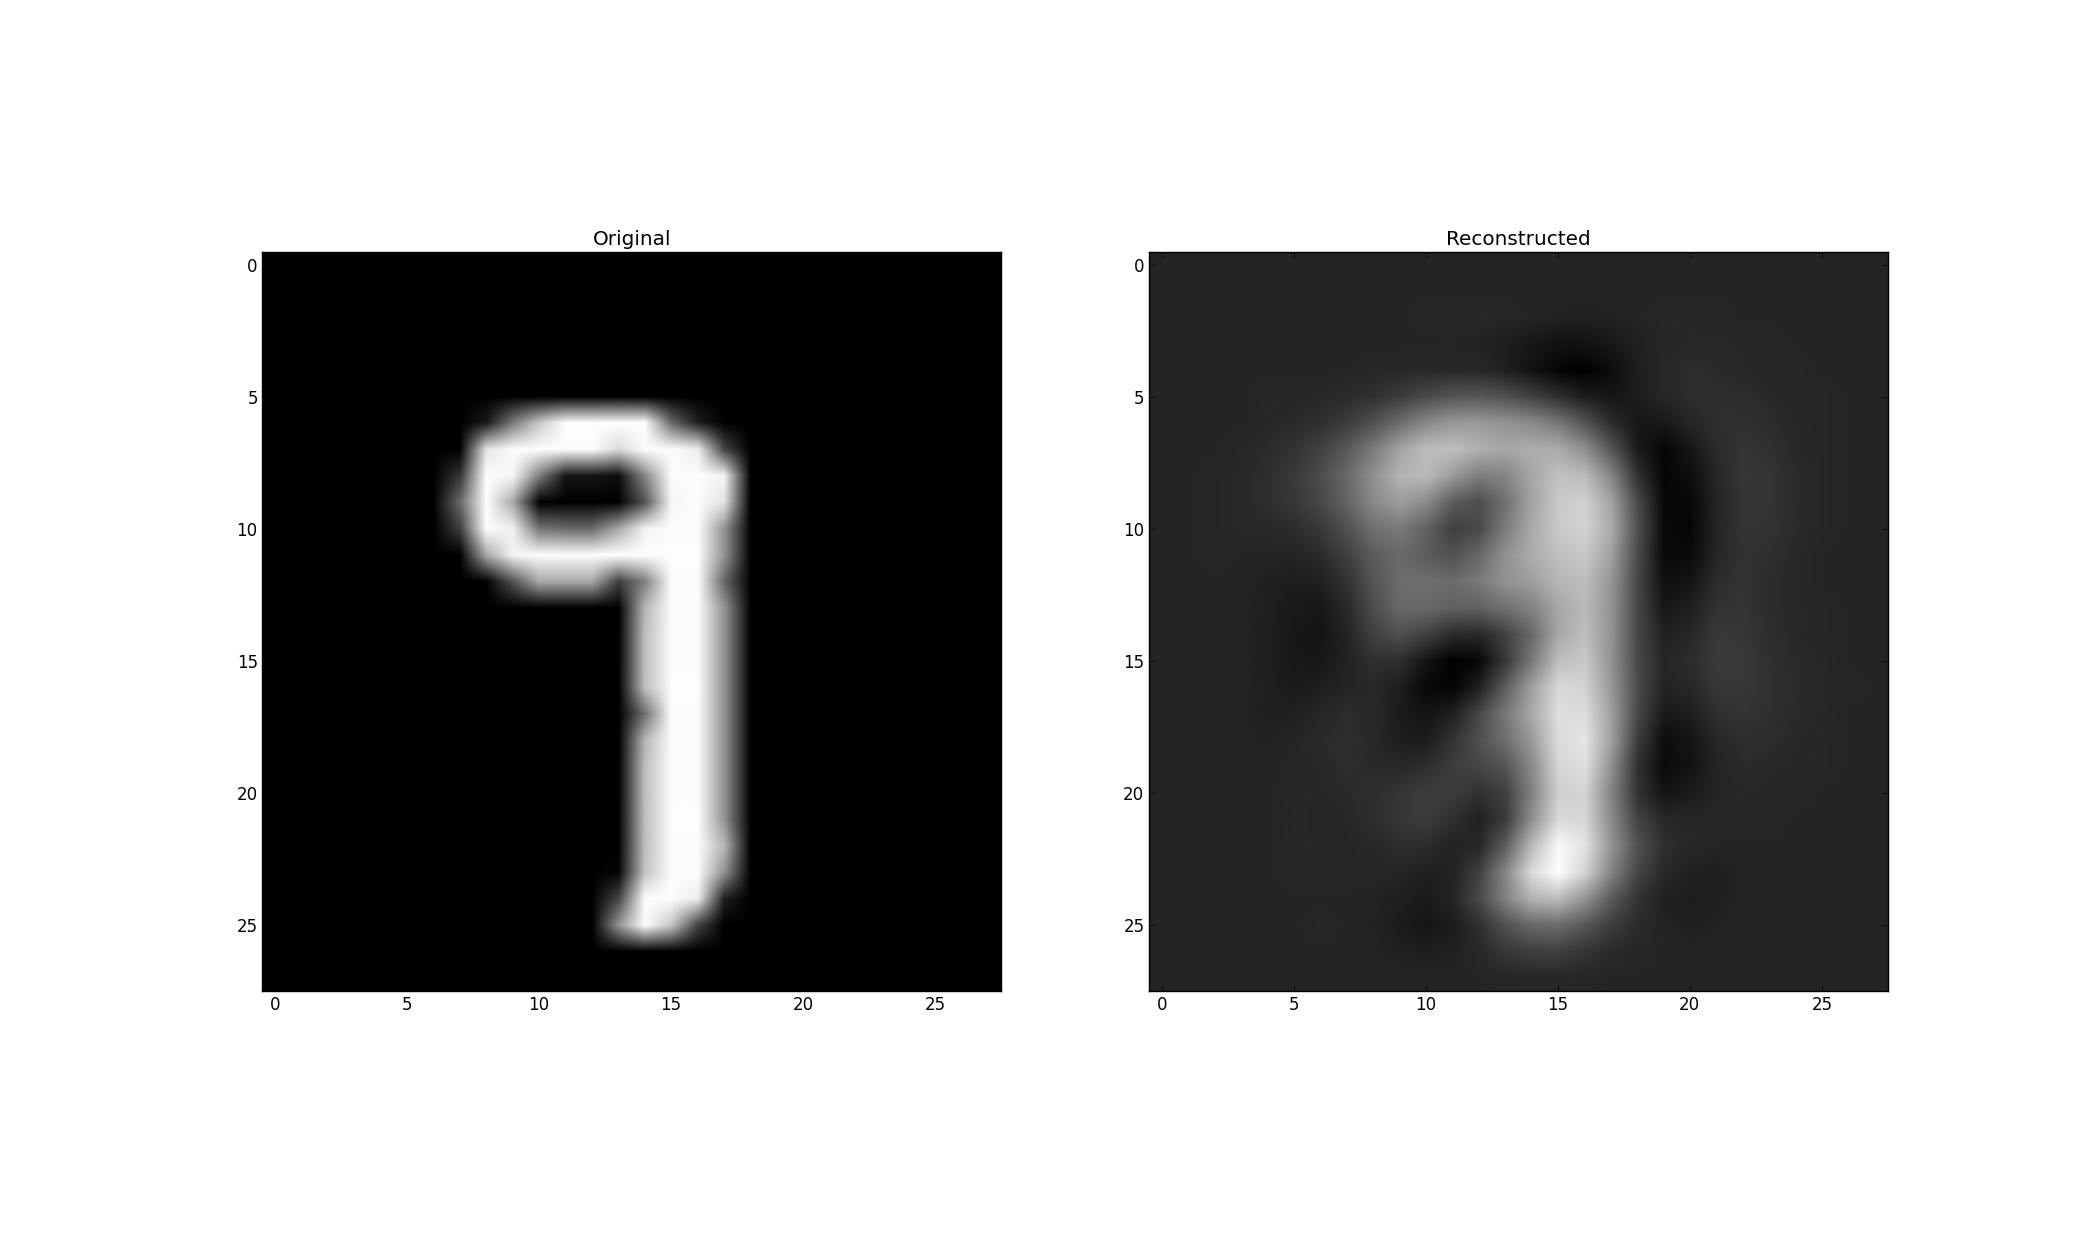
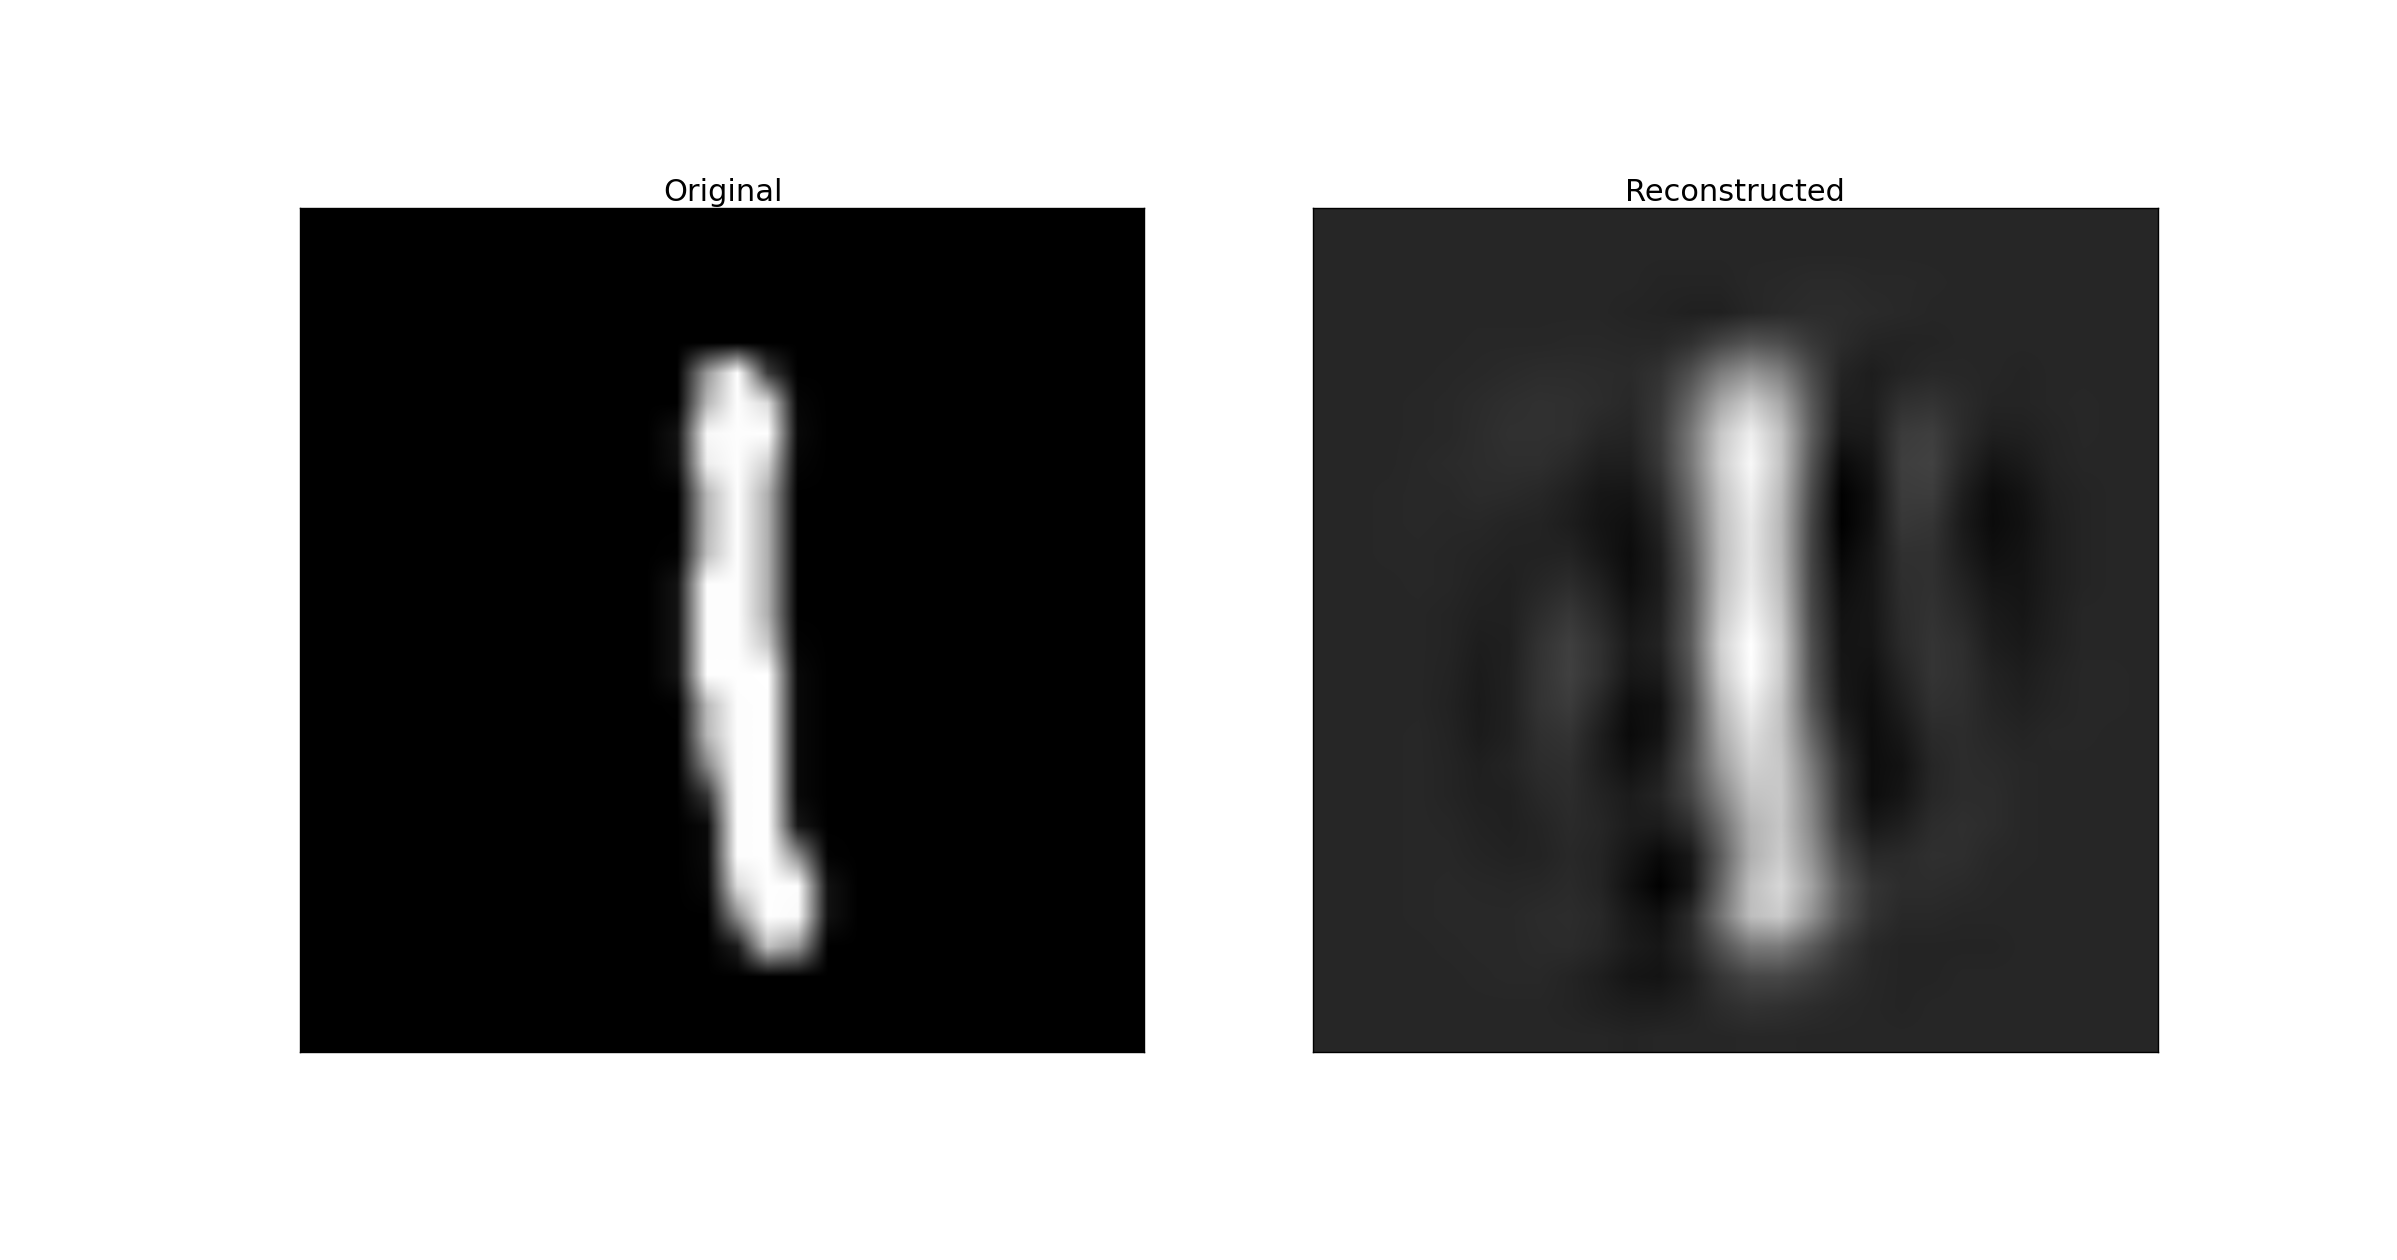
Removed axis from image output

diff --git a/mnist-deepautoencoder.py b/mnist-deepautoencoder.py
@@ -41,8 +41,12 @@ pred = e.network(valid)
 for i in np.random.randint(pred.shape[0], size=5):
     dim = int(np.sqrt(pred.shape[1]))
     fig, axarr = plt.subplots(1,2)
-    axarr[0].set_title("Original")
+    axarr[0].set_title("Original", fontsize=22)
+    axarr[0].xaxis.set_visible(False)
+    axarr[0].yaxis.set_visible(False)
     axarr[0].imshow(valid[i,:].reshape((dim,dim)), cmap="gray")
-    axarr[1].set_title("Reconstructed")
+    axarr[1].set_title("Reconstructed", fontsize=22)
+    axarr[1].xaxis.set_visible(False)
+    axarr[1].yaxis.set_visible(False)
     axarr[1].imshow(pred[i,:].reshape((dim,dim)), cmap="gray")
 plt.show()

diff --git a/mnist-autoencoder.py b/mnist-autoencoder.py
@@ -36,7 +36,11 @@ for i in np.random.randint(pred.shape[0], size=5):
     dim = int(np.sqrt(pred.shape[1]))
     fig, axarr = plt.subplots(1,2)
     axarr[0].set_title("Original")
+    axarr[0].xaxis.set_visible(False)
+    axarr[0].yaxis.set_visible(False)
     axarr[0].imshow(valid[i,:].reshape((dim,dim)), cmap="gray")
     axarr[1].set_title("Reconstructed")
+    axarr[1].xaxis.set_visible(False)
+    axarr[1].yaxis.set_visible(False)
     axarr[1].imshow(pred[i,:].reshape((dim,dim)), cmap="gray")
 plt.show()
